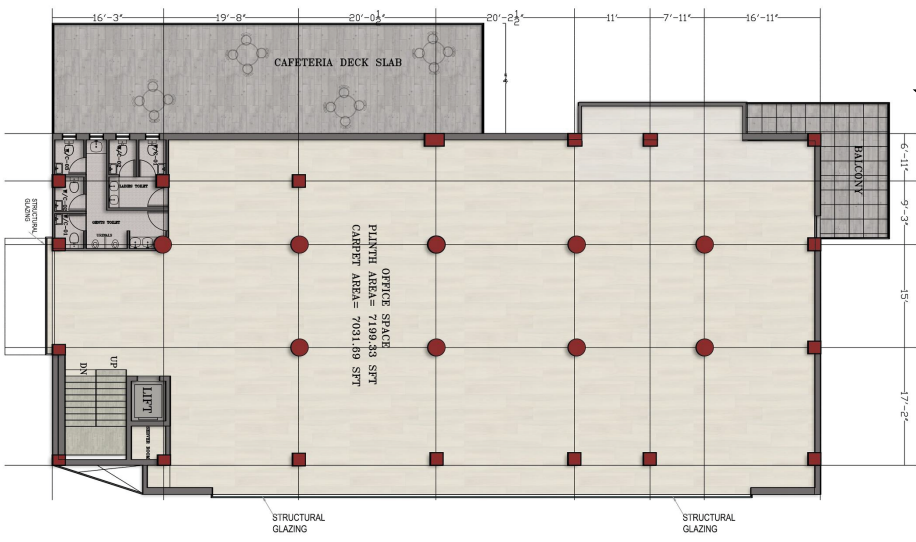
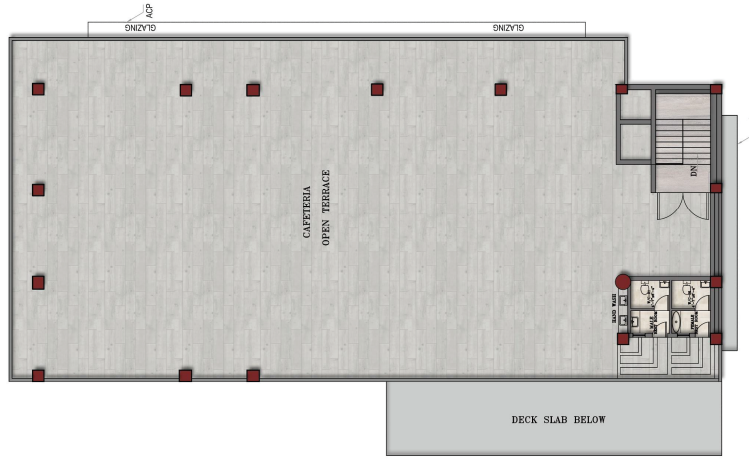
Images Added

diff --git a/src/components/ImageGallery.jsx b/src/components/ImageGallery.jsx
@@ -6,6 +6,9 @@ import img3 from "../../public/img3.png";
 import img4 from "../../public/img4.png";
 import img5 from "../../public/img5.png";
 import img6 from "../../public/img6.png";
+import img7 from "../../public/img7.png";
+import img8 from "../../public/img8.png";
+import img9 from "../../public/img9.png";
 
 const ImageCarousel = ({ images }) => {
   const [currentIndex, setCurrentIndex] = useState(0);
@@ -98,6 +101,18 @@ const  ImageGallery = () => {
     },
     {
       url: img6,
+      category: "architecture",
+    },
+    {
+      url: img7,
+      category: "architecture",
+    },
+    {
+      url: img8,
+      category: "architecture",
+    },
+    {
+      url: img9,
       category: "architecture",
     },
   ];

diff --git a/src/components/Adarsh.jsx b/src/components/Adarsh.jsx
@@ -132,14 +132,7 @@ const Adarsh = () => {
           className="px-4 py-2 border border-gray-300  focus:outline-none focus:ring-2 focus:ring-blue-500"
           required
         />
-        <input
-          type="text"
-          placeholder="Enter Super Area"
-          value={superArea}
-          onChange={(e) => setSuperArea(e.target.value)}
-          className="px-4 py-2 border border-gray-300  focus:outline-none focus:ring-2 focus:ring-blue-500"
-          required
-        />
+       
         <button
           type="submit"
           className="bg-blue-500 text-white px-4 py-2  shadow hover:bg-blue-600 transition duration-300"
